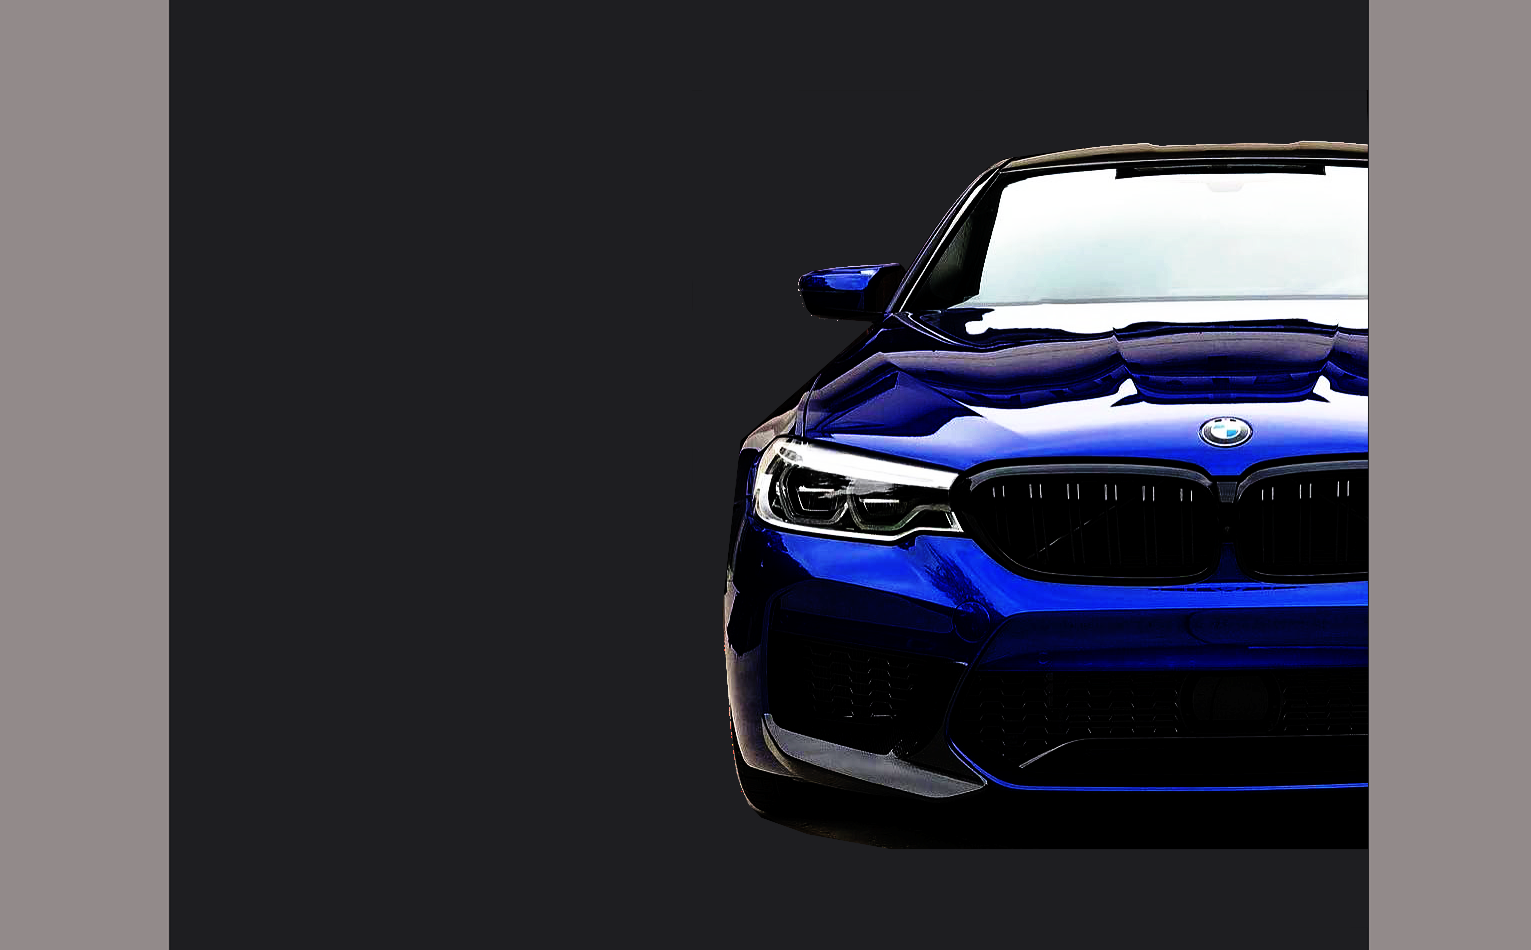
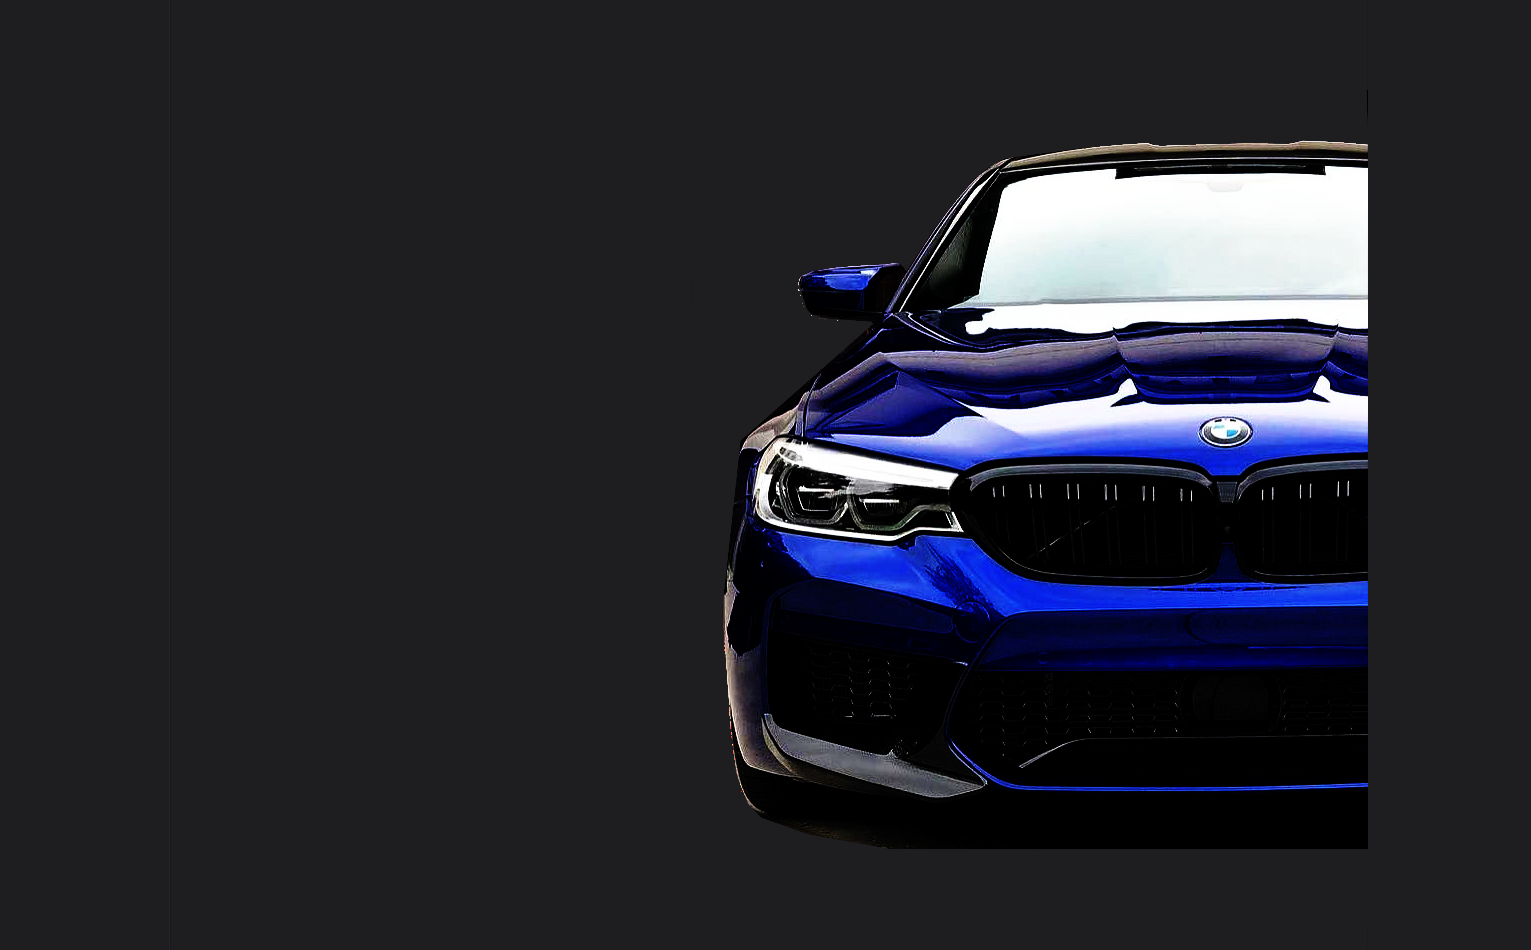
Большая часть работы проделана, осталось теперь допиливать всякие мелочи

Changed region(s): [[0.8903, 0.0, 1.0, 1.0], [0.0, 0.0, 0.1228, 1.0]]

diff --git a/style.css b/style.css
@@ -8,7 +8,7 @@ body {
 	font-size:15px;
 	color:#fff;
 
-	background-color:#928a8a;
+	background-color:#1e1e21;
 	
 }
 h1, h2, h3, h4, h5, h6{
@@ -41,14 +41,13 @@ h1, h2, h3, h4, h5, h6{
 	max-width: 1200px;
 	margin: auto;
 	height:679px;
-	margin-top:113px;
 }
 .container1{
 	width: 100%;
 	max-width: 1200px;
 	margin: 0 auto;
 	height: 792px;
-	padding-top: 113px;
+	padding-top: 220px;
 }
 /*==============Header=============*/
 .header{
@@ -81,16 +80,33 @@ h1, h2, h3, h4, h5, h6{
 }
 /*===============================Intro=================================*/
 .intro{
-	height:792px;
+	height:674px;
 	width: 100%;
-	background: #928a8a url("Images/intro.png") center no-repeat;
+	background: #1e1e21 url("Images/intro.png") center no-repeat;
 	background-size: cover;
 	position: relative;	
 }
+.strelki{
 
+}
+.face-block{
+	height: 250px;
+	width: 100%;
+	max-width: 1200px;
+	font-size: 65px;
+	opacity: 0.7;
+	padding-left: 40px;
+	padding-top: 50px;
+
+}
+.face-text{
+	width: 100%;
+	max-width:1200px;
+	height: 300px;
+}
 /*=================================Intro2===================================*/
 .intro2{
-	background: #928a8a url("Images/intro2.png") center no-repeat;
+	background: #1e1e21 url("Images/intro2.png") center no-repeat;
 	background-size: cover;
 	height:650px;
 	width: 100%;	
@@ -149,7 +165,7 @@ h1, h2, h3, h4, h5, h6{
 }
 /*===============================Intro3==============================*/
 .intro3{
-	background: #928a8a url("Images/intro3.png") center no-repeat;
+	background: #1e1e21 url("Images/intro3.png") center no-repeat;
 	background-size: cover;
 	height:950px;
 	width: 100%;	
@@ -211,7 +227,7 @@ h1, h2, h3, h4, h5, h6{
 }
 /*==============================Intro4===================================*/
 .intro4{
-	background: #928a8a url("Images/intro4.png") center no-repeat;
+	background: #1e1e21 url("Images/intro4.png") center no-repeat;
 	background-size: cover;
 	height:700px;
 	width: 100%;
@@ -291,7 +307,7 @@ h1, h2, h3, h4, h5, h6{
 }
 /*================================Intro5===================================*/
 .intro5{
-	background: #928a8a url("Images/intro5.png") center no-repeat;
+	background: #1e1e21 url("Images/intro5.png") center no-repeat;
 	background-size: cover;
 	height:300px;
 	width: 100%;
@@ -330,10 +346,24 @@ h1, h2, h3, h4, h5, h6{
 
 /*===============================Intro6================================*/
 .intro6{
-	height: 700px;
+	height: 667px;
+	background: #1e1e21 url("Images/intro6.png") center no-repeat;
+	background-size: cover;
+	width: 100%;
+	position: absolute;
 }
-
-
+.container6{
+    width: 100%;
+    max-width: 1200px;
+    margin:0 auto;
+    height: 667px;
+    position: relative;
+}
+.creator{
+	padding-top: 600px;
+	height: 67px;
+	padding-left: px;
+}
 
 
 

diff --git a/index.html b/index.html
@@ -23,7 +23,13 @@
 
 
 <div class="intro">
+  <div class="strelki"></div>
   <div class="container1">
+    <div class="face-block">BMW M5</div>
+    <div class="face-text">
+      <div class="big-text">Join the journey</div>
+      <div class="small-text"></div>
+    </div>
   </div>
 </div>
 
@@ -168,7 +174,11 @@ Passionate passion for motorsport, the driving force <br/>of which is the pursui
 </div>
 
 <div class="intro6">
-
+  <div class="container6">
+    <div class="creator">
+      <div class="text__creator">Podval Inc. 2019</div>
+    </div>
+  </div>
 </div>
 
 
